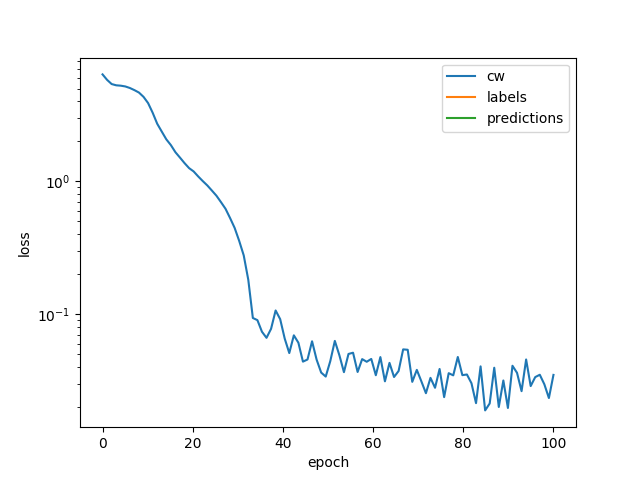
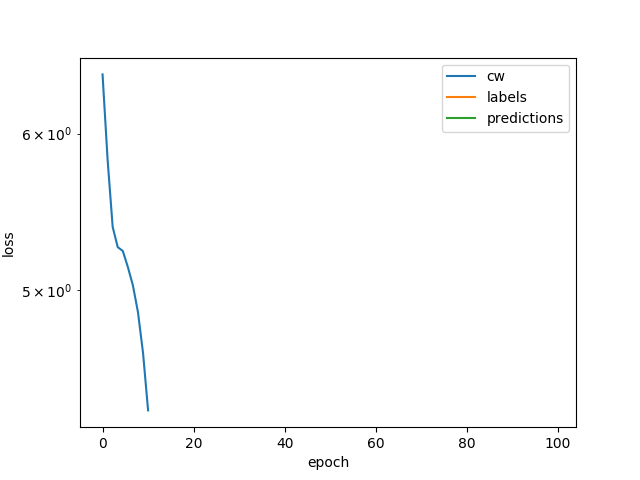
Add unconditional LSTM

diff --git a/LorenzMap/train_predict.py b/LorenzMap/train_predict.py
@@ -209,6 +209,7 @@ def train_predict_cw(ts=0, ntest=500, Lorenznsteps=1500, batch_size=32, epochs=1
     plt = plot_losses(losses, 'cw')
     # plt.show()
     plt.savefig('assets/losses_cw')
+    plt.close()
 
     # Make predictions on test set
     batch_size = 1
@@ -226,6 +227,7 @@ def train_predict_cw(ts=0, ntest=500, Lorenznsteps=1500, batch_size=32, epochs=1
     print('rmse test', rmse_test)
     plt = plot_predictions(preds[:100], labels[:100])
     plt.savefig('assets/preds_cwn')
+    plt.close()
 
 
 def train_predict_w(ts=0, ntest=500, Lorenznsteps=1500, batch_size=32, epochs=1):
@@ -255,6 +257,7 @@ def train_predict_w(ts=0, ntest=500, Lorenznsteps=1500, batch_size=32, epochs=1)
     plt = plot_losses(losses, 'w')
     # plt.show()
     plt.savefig('assets/losses_w')
+    plt.close()
 
     # Make predictions on test set
     batch_size = 1
@@ -269,6 +272,7 @@ def train_predict_w(ts=0, ntest=500, Lorenznsteps=1500, batch_size=32, epochs=1)
     print('rmse test', rmse_test)
     plt = plot_predictions(preds[:100], labels[:100])
     plt.savefig('assets/preds_w')
+    plt.close()
 
 
 def train_LSTM_SGD_gluon_mc(ts, data_x, data_y, data_z, in_channels, receptive_field,
@@ -375,15 +379,32 @@ def predict_cond_lstm(ts, g, in_channels, batch_size, receptive_field, net):
 
     return preds, labels
 
-def train_predict_clstm():
-    x, y, z = getDataLorenz(1500, dt=0.01, initx=0., inity=1., initz=1.05, s=10, r=28, b=8 / 3)
+def predict_uni_lstm(data_iter, in_channels, batch_size, receptive_field, net):
+    '''net is the trained net. Which ts to predict for is ts=0, 1, or 3'''
+
+    labels = []
+    preds = []
+
+    for x, y in data_iter:
+        # print(X)
+        x = x.T.reshape(receptive_field, batch_size, in_channels)
+        # print(X)
+        y_hat = net(x)
+        preds.extend(y_hat.asnumpy().tolist()[0])
+        labels.extend(y.asnumpy().tolist())
+
+    return preds, labels
+
+def train_predict_clstm(ts=0, ntest=500, Lorenznsteps=1500, batch_size=32, epochs=1):
+    x, y, z = getDataLorenz(Lorenznsteps, dt=0.01, initx=0., inity=1., initz=1.05, s=10, r=28, b=8 / 3)
 
     plt1.plot(x, z)
     plt1.xlabel('Lorenz x')
     plt1.ylabel('Lorenz z')
     plt1.savefig('assets/Lorenz_butterfly')
+    plt1.close()
 
-    nTest = 500
+    nTest = ntest
     nTrain = len(x) - nTest
     train_x, test_x = x[:nTrain], x[nTrain:]
     train_y, test_y = y[:nTrain], y[nTrain:]
@@ -391,7 +412,7 @@ def train_predict_clstm():
 
     # LSTM training architecture to match WaveNet unconditional
 
-    batch_size = 32
+    batch_size = batch_size
     seq_len = 16
     receptive_field = 16
     input_size = 3
@@ -399,14 +420,14 @@ def train_predict_clstm():
     in_channels = 3
 
     # Train lstm conditional
-    ts = 2  # for what ts one step ahead
+    ts = ts  # for what ts one step ahead
     loss, net = train_LSTM_SGD_gluon_mc(ts, train_x, train_y, train_z, in_channels=input_size, nhidden=nhidden,
                                         receptive_field=seq_len,
-                                        batch_size=batch_size, epochs=1, lr=0.001, l2_reg=0.001)
+                                        batch_size=batch_size, epochs=epochs, lr=0.001, l2_reg=0.001)
 
-    plt = plot_losses(loss, 'x_lstm_cond')
-    plt.savefig('assets/x_lstm25_cond')
-
+    plt = plot_losses(loss, 'lstm_cond')
+    plt.savefig('assets/lstm_cond_losses')
+    plt.close()
 
     # Predictions on test set.
 
@@ -415,5 +436,110 @@ def train_predict_clstm():
                                  batch_size=batch_size, last_batch='discard')
 
     preds, labels = predict_cond_lstm(ts, g, in_channels, batch_size, receptive_field, net)
-    rmse_x_lstm_cond = rmse(preds, labels)
-    print('rmse lstm x ts cond', rmse_x_lstm_cond)
+    rmse_lstm_cond = rmse(preds, labels)
+    print('rmse lstm cond', rmse_lstm_cond)
+
+def train_LSTM_SGD_gluon(data, in_channels, receptive_field, nhidden, epochs, batch_size, lr, l2_reg):
+    """train with SGD"""
+
+    # pad for ability to compare the models
+    data = np.append(np.zeros(receptive_field), data, axis=0)
+    g = get_gluon_iterator(data, receptive_field=receptive_field, shuffle=True,
+                           batch_size=batch_size, last_batch='discard')
+    # build model
+    net = LSTMLorenz(nhidden=nhidden, input_size=in_channels)
+    net.collect_params().initialize(mx.init.Xavier(), ctx=ctx)
+    trainer = gluon.Trainer(net.collect_params(), 'adam', {'learning_rate': lr, 'wd': l2_reg})
+    loss = gluon.loss.L1Loss()
+
+    loss_save = []
+    best_loss = sys.maxsize
+
+    for epoch in range(epochs):
+
+        params = net.collect_params()
+        total_epoch_loss, nb = 0, 0
+
+        for x, y in g:
+            # number of batches
+            nb += 1
+            # initialize for this batch and sequence
+            net.begin_state(batch_size=batch_size, ctx=ctx)
+
+            with autograd.record():
+                x = x.T.reshape(receptive_field, batch_size, in_channels)
+                # print(x.shape)
+                y_hat = net(x) # this is one example
+                # print(y_hat) # 4 examples, for the batch size
+                l = loss(y_hat, y) # this is a vector of length equal to batchsize
+                # print('batch l', l)
+                total_epoch_loss += nd.sum(l).asscalar()
+
+            l.backward()
+            trainer.step(batch_size, ignore_stale_grad=True)
+
+            # Inspect gradients
+            grads = [i.grad(ctx) for i in net.collect_params().values() if i._grad is not None]
+            # print('gradients', len(grads)) # there are 28 grads here
+            # yeap, they are all updating nicely in SGD
+
+        # epoch loss on train set
+        current_loss = total_epoch_loss/nb
+        loss_save.append(current_loss)
+        print('Epoch {}, loss {}'.format(epoch, current_loss))
+
+        if current_loss < best_loss:
+            best_loss = current_loss
+            net.save_params('assets/best_model_lstm')
+        print('best epoch loss: ', best_loss)
+
+     # return best model
+    new_net = LSTMLorenz(nhidden=nhidden, input_size=in_channels)
+    new_net.load_params('assets/best_model_lstm', ctx=ctx)
+    return loss_save, new_net
+
+def train_predict_lstm(ts=0, ntest=500, Lorenznsteps=1500, batch_size=32, epochs=1):
+    x, y, z = getDataLorenz(Lorenznsteps, dt=0.01, initx=0., inity=1., initz=1.05, s=10, r=28, b=8/3)
+
+    plt1.plot(x, z)
+    plt1.xlabel('Lorenz x')
+    plt1.ylabel('Lorenz z')
+    plt1.savefig('assets/Lorenz_butterfly')
+    plt1.close()
+
+    nTest = ntest
+    nTrain = len(x) - nTest
+    train_x, test_x = x[:nTrain], x[nTrain:]
+    train_y, test_y = y[:nTrain], y[nTrain:]
+    train_z, test_z = z[:nTrain], z[nTrain:]
+
+    if ts == 0:
+        data_train, data_test = train_x, test_x
+    elif ts == 1:
+        data_train, data_test = train_y, test_y
+    elif ts == 2:
+        data_train, data_test = train_z, test_z
+
+    # LSTM training architecture to match WaveNet unconditional
+    batch_size = batch_size
+    seq_len = 16
+    input_size = 1
+    nhidden = 25
+
+    loss, net = train_LSTM_SGD_gluon(data=data_train, in_channels=input_size, nhidden=nhidden,
+                                              receptive_field=seq_len,
+                                      batch_size=batch_size, epochs=epochs, lr=0.001, l2_reg=0.001)
+
+    plt = plot_losses(loss, 'lstm')
+    plt.savefig('assets/losses_lstm')
+    plt.close()
+
+    # Make some predictions
+    batch_size = 1
+    g = get_gluon_iterator(data=data_test, receptive_field=seq_len, shuffle=False,
+                           batch_size=batch_size, last_batch='discard')
+
+    preds, labels = predict_uni_lstm(g, input_size, batch_size, seq_len, net)
+
+    rmse_lstm = rmse(preds, labels)
+    print('rmse lstm', rmse_lstm)

diff --git a/LorenzMap/main.py b/LorenzMap/main.py
@@ -1,6 +1,3 @@
-"""
-Descrition : main module to run code
-"""
 # Licensed to the Apache Software Foundation (ASF) under one
 # or more contributor license agreements.  See the NOTICE file
 # distributed with this work for additional information
@@ -20,7 +17,7 @@ Descrition : main module to run code
 
 import argparse
 from train_predict import train_predict_cw, train_predict_w
-from train_predict import train_predict_clstm
+from train_predict import train_predict_clstm, train_predict_lstm
 
 
 def main():
@@ -35,7 +32,7 @@ def main():
 
     epochs: default for wavenet =100, default for lstm =30.
 
-    TODO: refactor code to include more args, remove any hardcoded, etc.
+    TODO: refactor code to include more args, remove any hardcoded, redundancies, etc.
 
     """
     parser = argparse.ArgumentParser()
@@ -45,9 +42,6 @@ def main():
     parser.add_argument('--epochs', type=int, default=10)
     parser.add_argument('--Lorenzsteps', type=int, default=1500)
     parser.add_argument('--test_size', type=int, default=500)
-    parser.add_argument('--n_hidden_LSTM', type=int, default=25)
-    parser.add_argument('--dilation_depth', type=int, default=4)
-    parser.add_argument('--receptive_field', type=int, default=16)
 
     config = vars(parser.parse_args())
 
@@ -60,7 +54,12 @@ def main():
                          batch_size=config['batch_size'], epochs=config['epochs'])
 
     elif config['model'] == 'clstm':
-        train_predict_clstm()
+        train_predict_clstm(ts=config['trajectory'], ntest=config['test_size'], Lorenznsteps=config['Lorenzsteps'],
+                         batch_size=config['batch_size'], epochs=config['epochs'])
+
+    elif config['model'] == 'lstm':
+        train_predict_lstm(ts=config['trajectory'], ntest=config['test_size'], Lorenznsteps=config['Lorenzsteps'],
+                         batch_size=config['batch_size'], epochs=config['epochs'])
 
 
 if __name__ == '__main__':

diff --git a/LorenzMap/data_util.py b/LorenzMap/data_util.py
@@ -37,9 +37,7 @@ def getDataLorenz(stepCnt, dt = 0.01, initx = 0., inity = 1., initz = 1., s = 5,
 def get_gluon_iterator(data, receptive_field, batch_size, shuffle=True, last_batch='discard'):
     '''Input is either the train set, the validation set or the test set, with padding already done if necessary,
     The examples are not extracted, the input is a ts of a certain length.
-    Predict 1 step ahead, 1 time series, x length is receptive field
-
-    To add conditionals or multiple tasks, get separate function.
+    Predict 1 step ahead, 1 time series, x length is receptive field.
     '''
 
     # get x and y

diff --git a/LorenzMap/models.py b/LorenzMap/models.py
@@ -62,7 +62,6 @@ class Lorenz(gluon.nn.Block):
         return output, skips
 
 
-
 class LSTMLorenz(gluon.nn.Block):
     def __init__(self, nhidden=25, dropout=0.1, input_size=1, output_size=1):
         super(LSTMLorenz, self).__init__()
